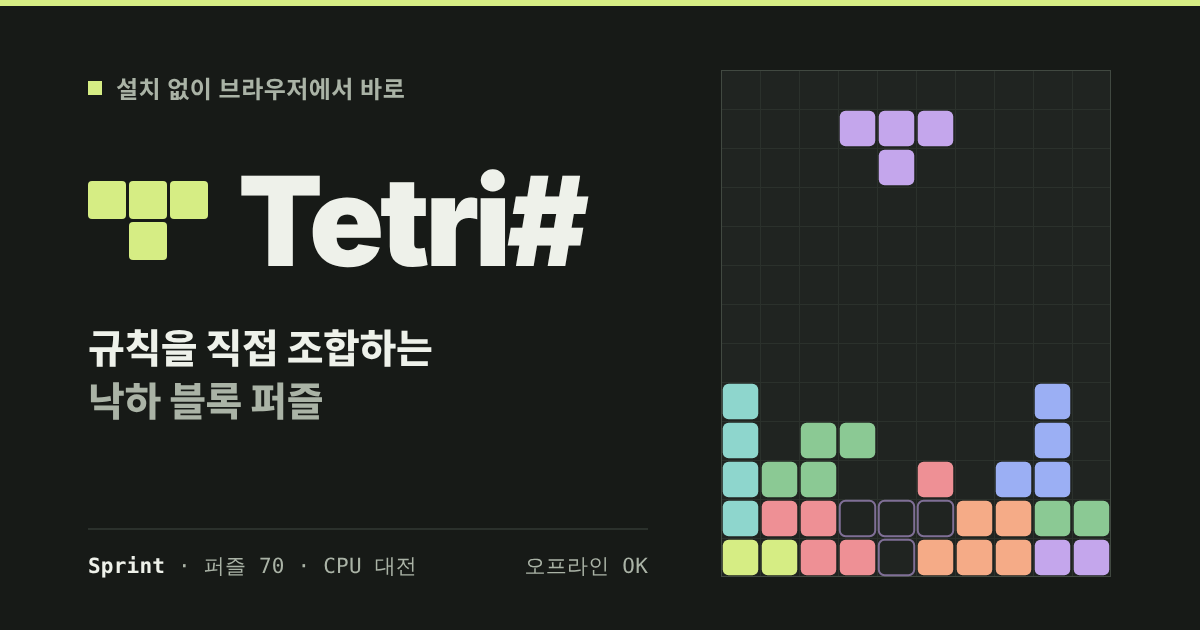
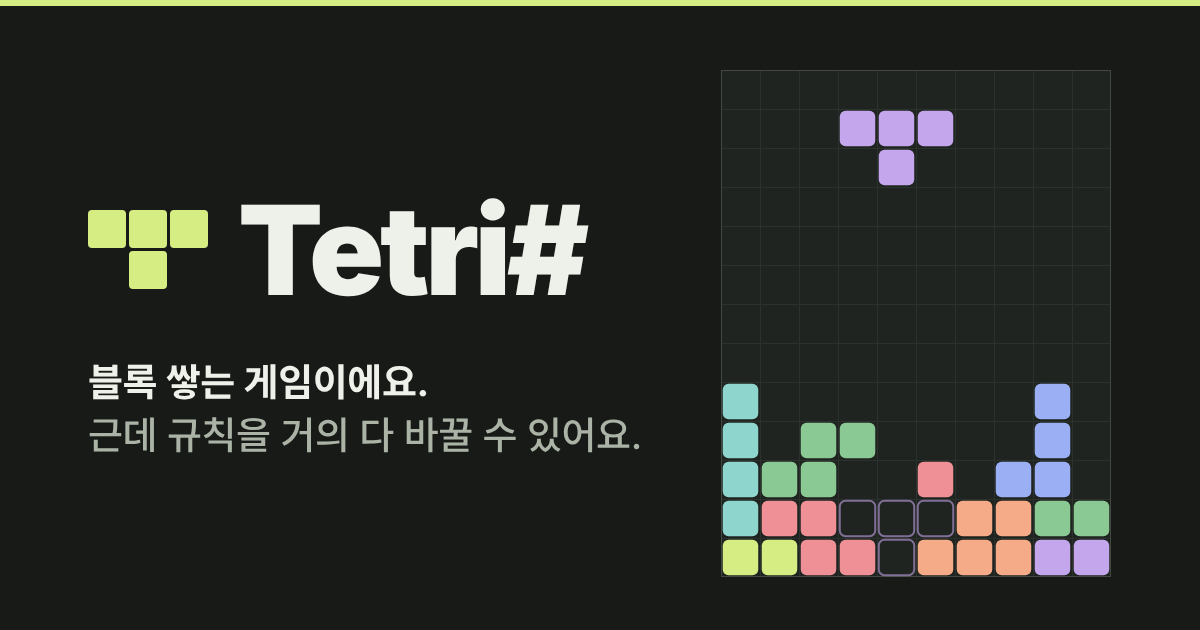
링크 배너 문구를 말하듯이
광고 문구 같던 소개·기능 나열을 빼고 두 줄로: "블록 쌓는 게임이에요. / 근데 규칙을 거의 다 바꿀 수 있어요."
og:description·이미지 설명도 같은 말투로.

Claude-Session: https://claude.ai/code/session_01So4WCqYyF8wpVrDLutXbg8

diff --git a/assets/og/og.html b/assets/og/og.html
@@ -41,12 +41,12 @@
   .eyebrow::before { content: ""; width: 14px; height: 14px; background: var(--accent); }
   .word {
     display: flex; align-items: center; gap: 30px;
-    margin: 54px 0 0; font-size: 124px; font-weight: 900; letter-spacing: -0.035em; line-height: 1;
+    margin: auto 0 0; font-size: 124px; font-weight: 900; letter-spacing: -0.035em; line-height: 1;
   }
   .mark { position: relative; width: 120px; height: 80px; flex: none; }
   .mark i { position: absolute; width: 38px; height: 38px; background: var(--accent); border-radius: 4px; }
-  .tag { margin: 40px 0 0; font-size: 40px; font-weight: 800; line-height: 1.32; letter-spacing: -0.01em; }
-  .tag span { color: var(--dim); }
+  .tag { margin: 44px 0 auto; font-size: 38px; font-weight: 700; line-height: 1.4; letter-spacing: -0.01em; }
+  .tag span { color: var(--dim); font-weight: 500; }
   .foot {
     margin-top: auto; padding-top: 22px; border-top: 2px solid var(--line);
     display: flex; justify-content: space-between; align-items: baseline; gap: 24px;
@@ -60,13 +60,11 @@
 </head>
 <body>
   <section class="copy">
-    <p class="eyebrow">설치 없이 브라우저에서 바로</p>
     <h1 class="word">
       <span class="mark"><i style="left:0;top:0"></i><i style="left:41px;top:0"></i><i style="left:82px;top:0"></i><i style="left:41px;top:41px"></i></span>
       Tetri#
     </h1>
-    <p class="tag">규칙을 직접 조합하는<br><span>낙하 블록 퍼즐</span></p>
-    <div class="foot"><span><b>Sprint</b> · 퍼즐 70 · CPU 대전</span><span>오프라인 OK</span></div>
+    <p class="tag">블록 쌓는 게임이에요.<br><span>근데 규칙을 거의 다 바꿀 수 있어요.</span></p>
   </section>
   <div class="board"><canvas id="b" width="392" height="510"></canvas></div>
 <script>
